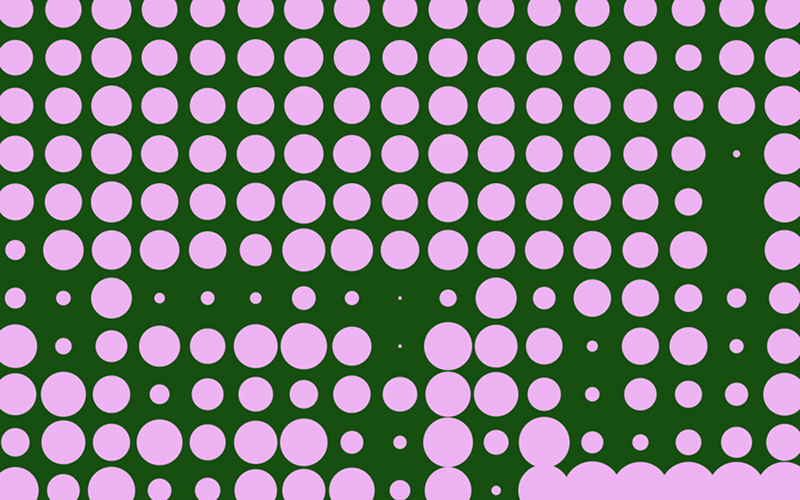
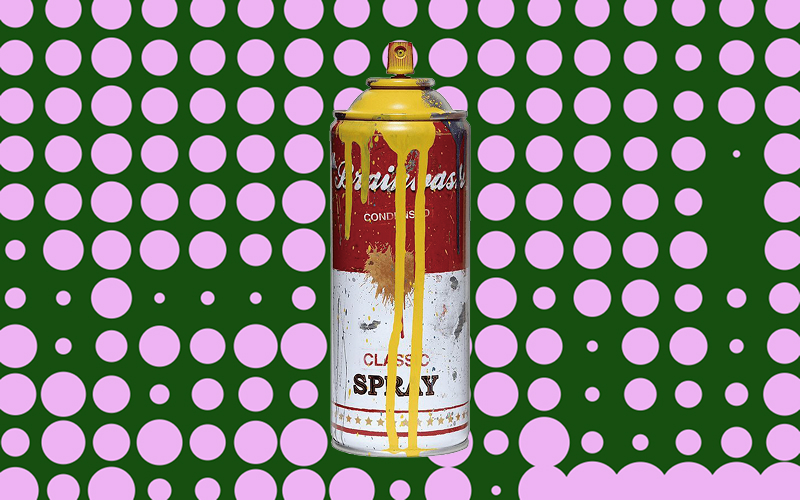
final

Changed region(s): [[0.4062, 0.06, 0.5938, 0.93]]

diff --git a/V2-final-version/styles.css b/V2-final-version/styles.css
@@ -4,6 +4,14 @@
   font-style: normal;
 }
 
+.sunshiney-regular {
+  font-family: "Sunshiney", cursive;
+  font-weight: 400;
+  font-style: normal;
+}
+
+
+
 :root {
     --sliderwidth: 0;
 }
@@ -23,6 +31,17 @@ h1 {
     position: relative;
     z-index: 10;
     font-size: 140px;
+}
+
+h2 {
+    color: #FF0090;
+    text-align: center;
+    font-family: "Sunshiney", cursive;
+    margin-top: 20px;
+    margin-bottom: 20px;
+    position: relative;
+    z-index: 10;
+    font-size: 60px;
 }
 
 /* text of "Art" moving from right to left */
@@ -57,11 +76,10 @@ h1 {
     }
 }
 
-/* hide the images that are not in view */
 .scroll-container {
     width: 100%;
     overflow-x: hidden;
-    margin-top: 40px; 
+    margin-top: 40px;
 }
 
 .slider {
@@ -108,5 +126,54 @@ h1 {
     display: block;
     margin-top: 20px;
     margin-bottom: 60px;
+}
+
+.animation2 {
+    display: flex;
+    justify-content: center;
+    align-items: center;
+    width: 100%;
+    min-height: 600px;
+}
+
+.animation2 img {
+    max-width: 100%;
+    height: 500px;
+    display: block;
+    margin-top: 100px;
+    margin-bottom: 60px;
+}
+
+
+.last-animation {
+    display: flex;
+    justify-content: center;
+    align-items: center;
+    width: 100%;
+    gap: 30px;
+    padding: 40px 20px;
+}
+
+.last-animation-item {
+    position: relative;
+    max-width: 400px;
+}
+
+.last-animation-item img {
+    max-width: 100%;
+    height: auto;
+    display: block;
+}
+
+.last-animation-item .hover-img {
+    position: absolute;
+    top: 0;
+    left: 0;
+    opacity: 0;
+    transition: opacity 0.3s ease;
+}
+
+.last-animation-item:hover .hover-img {
+    opacity: 1;
 }
 

diff --git a/V2-final-version/index.html b/V2-final-version/index.html
@@ -45,9 +45,39 @@
     </section>
 
     <section>
+
+        <h2>Move your mouse from left to right to visualize the feeling I experienced.</h2>
         <div class='animation1'>
-            <img src="images/a1.jpg" alt="streetart animation">
+            <img src="images/a1.jpg" alt="streetart animation1">
         </div>
+        <h2>Graffiti artwork by Icelandic artist Kalli Youze,<br> 
+        captured in downtown Reykjavik.</h2>
+    </section>
+
+    <section>
+        <h1>Graffiti Typography</h1>
+        <div class='animation2'>
+            <img src="images/spray1.jpg" alt="streetart animation2">
+        </div>
+    </section>
+
+    <section>
+        <h1>Street Art</h1>
+        <div class='last-animation'>
+            <div class='last-animation-item'>
+                <img src="images/m1.jpg" alt="streetart animation3">
+                <img src="images/m1-hover.jpg" class="hover-img" alt="streetart animation3 hover">
+            </div>
+            <div class='last-animation-item'>
+                <img src="images/m2.jpg" alt="streetart animation3">
+                <img src="images/m2-hover.jpg" class="hover-img" alt="streetart animation3 hover">
+            </div>
+            <div class='last-animation-item'>
+                <img src="images/m3.jpg" alt="streetart animation3">
+                <img src="images/m3-hover.jpg" class="hover-img" alt="streetart animation3 hover">
+            </div>
+        </div>
+        <h1>in Various medium </h1>
     </section>
 
     <script src="script.js"></script>

diff --git a/V2-final-version/script.js b/V2-final-version/script.js
@@ -43,3 +43,34 @@ function reportPos(event) {
         console.log(changePhoto);
     }
 }
+
+(function () {
+            'use strict';
+            document.addEventListener('mousemove', reportPos);
+            const theImg = document.querySelector('.animation2 img');
+            let prevXLoc = 0;
+            let prevYLoc = 0;
+
+            function reportPos(event){
+                const windowWidth = window.innerWidth;
+                const widthPercent = windowWidth/9;
+                const xPos = event.clientX;
+                const changePhoto = Math.floor(xPos/ widthPercent) + 1;
+
+                const windowHeight = window.innerHeight;
+                const heightDegree = windowHeight / 120;
+                const yPos = event.clientY;
+                const changeRotation = Math.floor(yPos/heightDegree);
+
+                if (changePhoto !== prevXLoc && changePhoto >= 1 && changePhoto <= 9) {
+                    theImg.src = `images/spray${changePhoto}.jpg`;
+                    prevXLoc = changePhoto;
+                    console.log(prevXLoc);
+                }
+
+                if (changeRotation !== prevYLoc) {
+                    theImg.style.transform = `rotate(${changeRotation}deg)`;
+                    prevYLoc = changeRotation;
+                }
+            }
+        })();
